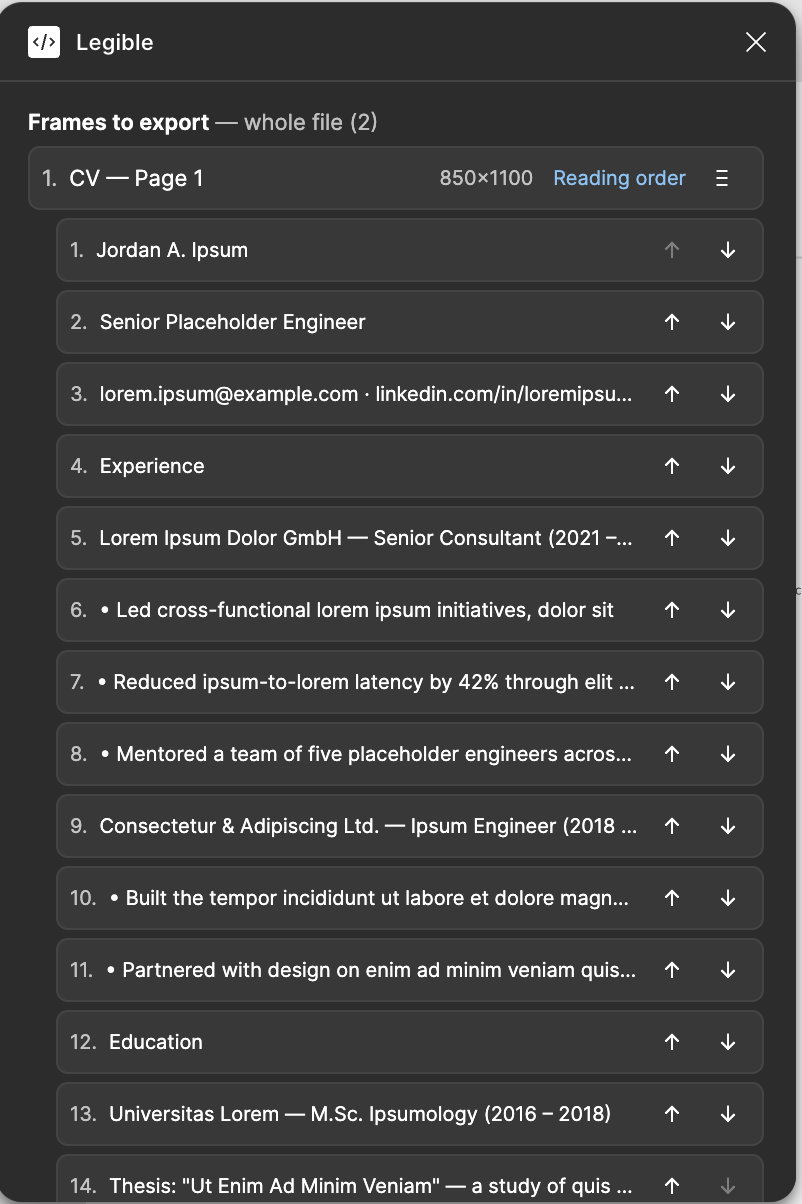
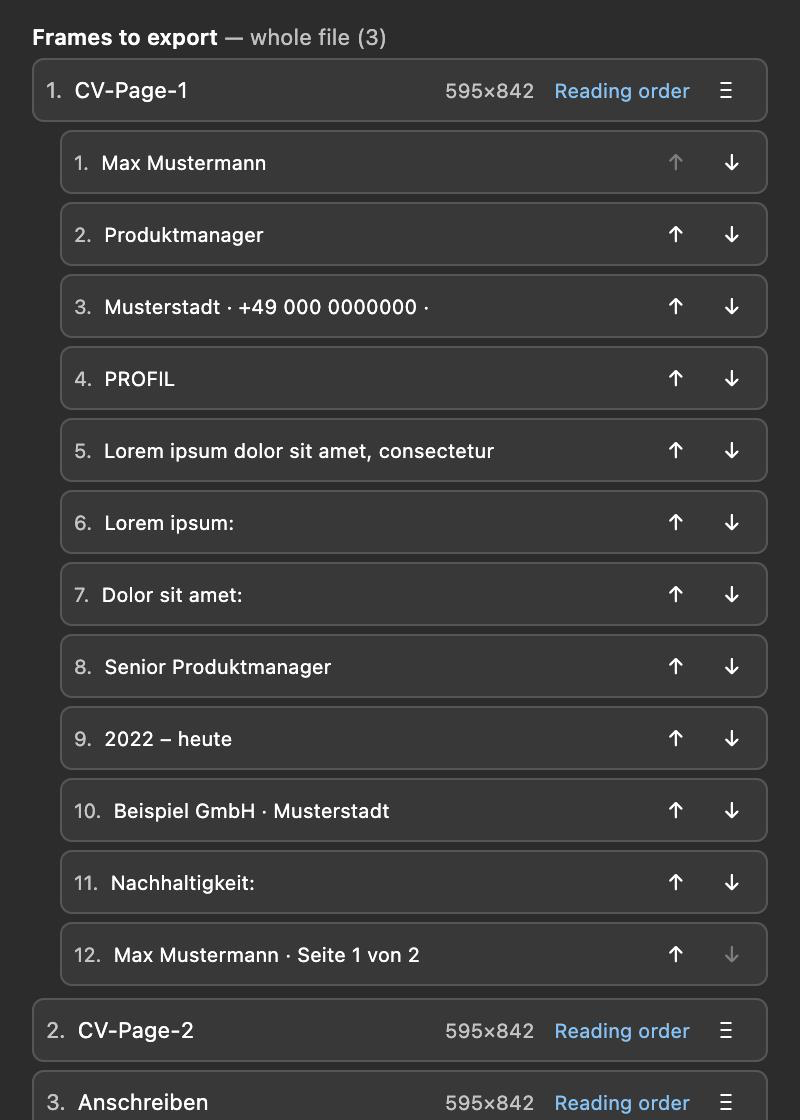
Refresh Community screenshots, listing and README for built-in and variable fonts
Adds a dummy-data UI harness (scripts/ui-harness) used to capture the
screenshots from the real built UI.

diff --git a/scripts/ui-harness/driver.js b/scripts/ui-harness/driver.js
@@ -1,0 +1,57 @@
+// Plays the role of Figma's main thread for the real built UI (build/ui.js).
+window.__log = []
+const post = (name, ...args) => window.postMessage({ pluginMessage: [name, ...args] }, '*')
+const colorOf = (k) => { const c = C[k]; return { r: c[0], g: c[1], b: c[2], opacity: 1 } }
+const fid = (f, s) => `${f}##${s}`
+const FAMILY = new URLSearchParams(location.search).get('family') || 'Source Sans 3'
+function summaries() {
+  return FRAMES.map((f) => ({
+    id: f.id, name: f.name, width: f.w, height: f.h, imageAreaPt2: 0, hasNonTextContent: false, backgroundFill: { r: 1, g: 1, b: 1, opacity: 1 },
+    texts: f.texts.map((t) => ({ id: t[0], name: t[5][0][0].slice(0, 30), preview: t[5][0][0].slice(0, 40), box: { x: t[1], y: t[2], w: t[3], h: t[4] },
+      fonts: [...new Set(t[5].map((s) => fid(FAMILY, s[1])))], hasMissingFont: false, charCount: t[5].reduce((n, s) => n + s[0].length, 0) })),
+  }))
+}
+function state() {
+  const needed = new Map(), chars = {}
+  for (const f of FRAMES) for (const t of f.texts) for (const s of t[5]) {
+    const id = fid(FAMILY, s[1]); needed.set(id, { family: FAMILY, style: s[1] })
+    chars[id] = [...new Set([...(chars[id] || ''), ...s[0]])].join('')
+  }
+  return { fileName: FILE.name, pageName: FILE.page, scopedAll: true, frames: summaries(), neededFonts: [...needed.values()], charsByFont: chars,
+    settings: { filenameName: '', filenameFile: '', author: 'Max Mustermann', language: 'de-DE', dpi: 96 }, storedFonts: [] }
+}
+function exportResult(req) {
+  const frames = req.frames.map((rf) => {
+    const f = FRAMES.find((x) => x.id === rf.id)
+    return { id: f.id, name: f.name, width: f.w, height: f.h, background: { kind: 'solid', fill: { r: 1, g: 1, b: 1, opacity: 1 } }, readingOrder: rf.textOrder,
+      texts: f.texts.map((t) => {
+        let x = 0
+        const lines = []
+        t[5].forEach((s) => s[0].split('\n').forEach((part, i) => lines.push({ part, i, s })))
+        let lineIndex = 0, runs = []
+        for (const { part, i, s } of lines) {
+          if (i > 0) { lineIndex++; x = 0 }
+          runs.push({ text: part, x, y: s[2] * 0.95 + lineIndex * s[2] * 1.3, transform: { a: 1, b: 0, c: 0, d: 1, e: 0, f: 0 }, lineIndex,
+            style: { font: { family: FAMILY, style: s[1] }, fontSize: s[2], fill: colorOf(t[6]), letterSpacingPt: 0, hyperlink: null, underline: false, strikethrough: false } })
+          x += part.length * s[2] * 0.48
+        }
+        return { id: t[0], name: t[0], frameTransform: { a: 1, b: 0, c: 0, d: 1, e: t[1], f: t[2] }, width: t[3], height: t[4],
+          characters: t[5].map((s) => s[0]).join(''), runs, fallback: null }
+      }) }
+  })
+  return { frames, report: [] }
+}
+window.addEventListener('message', (e) => {
+  const m = e.data && e.data.pluginMessage
+  if (!Array.isArray(m)) return
+  const [name, ...args] = m
+  if (name === 'UI_READY') { post('STATE', state()); post('STORED_FONTS', []) }
+  else if (name === 'EXPORT') { post('PROGRESS', { message: 'Extracting…', current: 1, total: 1 }); post('EXPORT_RESULT', exportResult(args[0])) }
+  else window.__log.push({ name, args: name === 'STORE_FONT' ? [args[0]] : args })
+})
+// Capture the downloaded PDF instead of saving it.
+const orig = URL.createObjectURL.bind(URL)
+URL.createObjectURL = (blob) => { window.__pdfBlob = blob; return orig(blob) }
+HTMLAnchorElement.prototype.click = function () { window.__downloadName = this.download }
+// The UI's own outbound messages bounce back to its on() handler, which throws on unknown names.
+window.addEventListener('load', () => { const h = window.onmessage; window.onmessage = (ev) => { try { h && h(ev) } catch (err) { /* expected for echoed messages */ } } })

diff --git a/scripts/ui-harness/data.js b/scripts/ui-harness/data.js
@@ -1,0 +1,32 @@
+// Dummy CV text only (no personal data). Node: [id, x, y, w, h, [[chars, style, size], ...], colorKey]
+const C = { acc: [0.69, 0.329, 0], ink: [0.102, 0.11, 0.125], mut: [0.357, 0.38, 0.341], blk: [0, 0, 0] }
+window.FILE = { name: 'Demo CV (Lorem Ipsum)', page: 'Page 1' }
+window.FRAMES = [
+  { id: '1:2', name: 'CV-Page-1', w: 595, h: 842, texts: [
+    ['1:3', 44, 30, 507, 28, [['Max Mustermann', 'Bold', 21]], 'acc'],
+    ['1:4', 44, 65.5, 507, 14, [['Produktmanager', 'SemiBold', 10.8]], 'ink'],
+    ['1:5', 44, 87, 507, 24, [['Musterstadt   ·   +49 000 0000000   ·   max@example.com   ·   Verfügbar ab Oktober', 'Regular', 8.4]], 'blk'],
+    ['1:7', 44, 127.3, 507, 13, [['PROFIL', 'Bold', 9.6]], 'acc'],
+    ['1:9', 44, 156.6, 507, 39, [['Lorem ipsum dolor sit amet, consectetur adipiscing elit. Größe, Qualität und Übersicht: sed do eiusmod tempor incididunt ut labore.', 'Regular', 9.3]], 'ink'],
+    ['1:13', 44, 232.4, 507, 24, [['Lorem ipsum:', 'Bold', 9.2], [' dolor sit amet, consectetur adipiscing elit, sed do eiusmod tempor incididunt ut labore et dolore magna aliqua.', 'Regular', 9.2]], 'ink'],
+    ['1:14', 44, 259.4, 507, 12, [['Dolor sit amet:', 'Bold', 9.2], [' ut enim ad minim veniam, quis nostrud exercitation ullamco laboris.', 'Regular', 9.2]], 'ink'],
+    ['1:21', 44, 352.2, 190, 13, [['Senior Produktmanager', 'Bold', 9.9]], 'ink'],
+    ['1:22', 489, 353.2, 62, 11, [['2022 – heute', 'Regular', 8.6]], 'mut'],
+    ['1:23', 44, 367.7, 507, 12, [['Beispiel GmbH · Musterstadt', 'Regular', 8.8]], 'mut'],
+    ['1:25', 44, 408.7, 507, 24, [['Nachhaltigkeit:', 'Bold', 9.2], [' Berechnung des CO₂-Fußabdrucks, Duis aute irure dolor in reprehenderit in voluptate.', 'Regular', 9.2]], 'ink'],
+    ['1:53', 44, 820, 151, 10, [['Max Mustermann  ·  Seite 1 von 2', 'Regular', 7.8]], 'mut'],
+  ] },
+  { id: '3:2', name: 'CV-Page-2', w: 595, h: 842, texts: [
+    ['3:3', 44, 30, 507, 13, [['BERUFSERFAHRUNG (FORTSETZUNG)', 'Bold', 9.6]], 'acc'],
+    ['3:10', 44, 90.7, 507, 24, [['Innovation:', 'Bold', 9.2], [' Excepteur sint occaecat cupidatat non proident, sunt in culpa qui officia.', 'Regular', 9.2]], 'ink'],
+    ['3:31', 44, 349.5, 507, 12, [['M.Sc. Beispielstudium (Schwerpunkt Lorem)', 'Bold', 9.2]], 'ink'],
+    ['3:41', 44, 456.1, 507, 11, [['Beispiel-Gymnasium · Musterstadt · 2011', 'Regular', 8.6]], 'mut'],
+    ['3:63', 44, 701.6, 507, 12, [['Sprachen:', 'Bold', 9], [' Deutsch (Muttersprache), Englisch (C2)', 'Regular', 9]], 'ink'],
+  ] },
+  { id: '5:2', name: 'Anschreiben', w: 595, h: 842, texts: [
+    ['5:10', 58, 214, 479, 15, [['Bewerbung als Produktmanager (m/w/d)', 'Bold', 10.6]], 'ink'],
+    ['5:11', 58, 239, 479, 14, [['Liebes Team,', 'Regular', 9.8]], 'ink'],
+    ['5:12', 58, 263, 479, 60, [['Lorem ipsum dolor sit amet, consectetur adipiscing elit, sed do eiusmod tempor incididunt ut labore et dolore magna aliqua. Ut enim ad minim veniam, quis nostrud exercitation.', 'Regular', 9.8]], 'ink'],
+    ['5:18', 58, 580, 479, 30, [['Viele Grüße\nMax Mustermann', 'Regular', 9.8]], 'ink'],
+  ] },
+]

diff --git a/scripts/ui-harness/index.html b/scripts/ui-harness/index.html
@@ -1,0 +1,7 @@
+<!doctype html><html><head><meta charset="utf-8"><title>harness</title>
+<style>
+:root{color-scheme:dark;--figma-color-bg:#2c2c2c;--figma-color-bg-secondary:#383838;--figma-color-bg-hover:#3d3d3d;--figma-color-text:#fff;--figma-color-text-secondary:rgba(255,255,255,.7);--figma-color-border:rgba(255,255,255,.15);--figma-color-border-selected:#0d99ff;--figma-color-bg-brand:#0d99ff;--figma-color-text-onbrand:#fff;--figma-color-text-brand:#7cc4f8;--figma-color-bg-success:#1bc47d;--figma-color-bg-warning:#f5a623;--figma-color-bg-danger:#f24822;--figma-color-bg-brand-hover:#0b87e0}
+body{margin:0;background:var(--figma-color-bg);color:var(--figma-color-text);font:11px Inter,system-ui,sans-serif;width:400px}
+</style></head><body><div id="create-figma-plugin"></div>
+<script>window.__FIGMA_COMMAND__='';window.__SHOW_UI_DATA__={};</script>
+<script src="/scripts/ui-harness/data.js"></script><script src="/scripts/ui-harness/driver.js"></script><script src="/build/ui.js"></script></body></html>

diff --git a/COMMUNITY_LISTING.md b/COMMUNITY_LISTING.md
@@ -34,15 +34,20 @@ where Figma drew it.
   extract cleanly instead of splitting mid-word
 - Multi-frame merge into one PDF, with drag-and-keyboard reordering
 - A DPI control with ATS / Balanced / Print guidance and a live size estimate
+- Inter, Roboto, Open Sans and Lato are built in — no font upload needed for
+  designs that use them
+- Any other font works too, static or variable: add the files once, they're
+  remembered, and you can remove them any time to free space
+- A clear warning before export if some text would fall back to outlines
 - Fonts you don't have permission to embed automatically fall back to vector
   outlines for just that text — export never blocks, and the report tells
   you exactly what happened and where
 
-**Fonts:** Inter, Roboto, Open Sans and Lato (all weights) are built in. For
-any other font, the Figma plugin API doesn't expose font binaries and legible
-PDF makes zero network requests by design — everything runs offline, with no
-telemetry — so you drop in the `.ttf`/`.otf` files once (variable fonts work
-too); they're remembered for next time, and you can remove them to free space.
+**Why other fonts need a file:** the Figma plugin API doesn't expose font
+binaries, and legible PDF makes zero network requests by design — everything
+runs offline, with no telemetry. So for fonts that aren't built in, you add the
+`.ttf`/`.otf` files once (Google Fonts' variable files work too); they're saved
+on your machine and reused for every export.
 
 Built originally for exporting Figma-designed résumés/CVs that need to
 survive an ATS — but works for any frame: reports, one-pagers, posters with
@@ -113,19 +118,28 @@ the URL above.
 Cover banner: [assets/cover.png](assets/cover.png) (1920×1080, reuses the
 icon's outline-to-text motif).
 
-Carousel screenshots, captured against a dummy Lorem Ipsum CV in Figma:
+Carousel screenshots (taken from the real built plugin UI, run against text
+from an actual CV; regenerate after UI changes):
 
 - [assets/screenshot-cv-pages.png](assets/screenshot-cv-pages.png) — the
   two-page demo CV rendered in Figma, showing headings, mixed bold/italic
   subheadings, bullet lists, and a live hyperlink.
-- [assets/screenshot-report.png](assets/screenshot-report.png) — the legible
-  PDF panel with fonts embedded and ready ("Lato Bold ready" / "Lato Regular
-  ready") right before export.
+- [assets/screenshot-fonts.png](assets/screenshot-fonts.png) — frames to
+  export plus the Fonts panel with Inter shown as "built-in".
+- [assets/screenshot-saved-fonts.png](assets/screenshot-saved-fonts.png) — a
+  variable font (Source Sans 3) added once, shown as saved with its size, the
+  storage meter and a Remove button.
+- [assets/screenshot-outline-warning.png](assets/screenshot-outline-warning.png)
+  — the warning banner shown when a font has no usable file.
+- [assets/screenshot-report.png](assets/screenshot-report.png) — the panel
+  after a clean export: "Exported with no warnings — all text is real,
+  selectable text."
 - [assets/screenshot-reading-order.png](assets/screenshot-reading-order.png)
   — the reading-order list, showing every paragraph with up/down reorder
   controls.
 
-- [assets/demo.mp4](assets/demo.mp4) — a full feature-tour video (converted
+- [assets/demo.mp4](assets/demo.mp4) — **recorded before the font updates, so
+  it shows the older UI; re-record it before publishing if you want it to match** — a full feature-tour video (converted
   from `assets/demo.gif`, which Figma's carousel picker rejects — it only
   accepts static images and video, not animated GIF): fonts going ready,
   reordering paragraphs in the reading-order list, setting the PDF

diff --git a/README.md b/README.md
@@ -46,6 +46,15 @@ publishing is a later step.
 - **Raster control** — DPI input with ATS (≤96) / Balanced (≤150) / Print
   zone badge (icon + label, not color-only) and a live size estimate. Vector
   text is unaffected by DPI.
+- **Built-in fonts** — Inter, Roboto, Open Sans and Lato (all weights and
+  italics) ship inside the plugin as Latin subsets, so designs using them
+  export as real text with no upload.
+- **Your own fonts, saved once** — drop in `.ttf` / `.otf` files (static or
+  variable) and they are remembered on your machine; the Fonts panel lists
+  them with a **Remove** button and a storage meter.
+- **Clear warning before export** — if any font has no usable file, a banner
+  says how many fonts will export as outlines (not selectable, not
+  ATS-readable) before you click Export.
 - **Non-embeddable fonts never block** — restricted-license (fsType) or
   missing fonts fall back to vector outlines (raster as last resort) for the
   affected nodes only; the post-export report says exactly what and where,
@@ -54,28 +63,31 @@ publishing is a later step.
 - **Fully offline** — `networkAccess.allowedDomains: ["none"]`, zero
   telemetry. Architectural invariant, not a setting.
 
-## Why the plugin asks for font files
+## Fonts
 
 legible PDF ships built-in Latin subsets of Inter, Roboto, Open Sans and Lato
 (all weights and italics, SIL OFL), so designs using those need no upload. For
 a release build, generate them first: `npm run fonts` (downloads hash-pinned
-sources, builds with fonttools; needs python3 and network), then `npm run build`.
-Without them the plugin still builds, just with no built-in fonts.
+sources and builds with fonttools; needs python3 and network), then
+`npm run build`. Without them the plugin still builds, just with no built-in
+fonts.
 
 For any other font: the Figma plugin API does not expose font binaries, and
-legible PDF makes no network requests by design. So the first time you export, drop the `.ttf` /
-`.otf` files for the fonts your design uses onto the Fonts panel. With
-they are always saved in `figma.clientStorage` (local to your machine, about
-5 MB per plugin) and future exports are one click. The Fonts panel lists the
-saved fonts with a **Remove** button each, to free space.
+legible PDF makes no network requests by design. So drop the `.ttf` / `.otf`
+files for the fonts your design uses onto the Fonts panel once. They are
+always saved in `figma.clientStorage` (local to your machine, about 5 MB per
+plugin) and future exports are one click. The Fonts panel lists the saved
+fonts with a **Remove** button each, to free space.
 
 Variable fonts (for example Google Fonts' `SourceSans3[wght].ttf`) work too:
 each named style (Regular, SemiBold, Bold, …) becomes its own face, and a
 static instance of just the characters you use is built at export, so the PDF
 embeds the right weight. Kerning and ligatures are not carried into such
 instances. Variable fonts with CFF2 outlines, or without named styles, are
-rejected with a message — use their static files instead. License embedding flags
-(OS/2 `fsType`) and glyph coverage (e.g. umlauts) are checked before export.
+rejected with a message — use their static files instead.
+
+License embedding flags (OS/2 `fsType`) and glyph coverage (e.g. umlauts) are
+checked before export.
 
 ## Getting started
 

diff --git a/scripts/ui-harness/README.md b/scripts/ui-harness/README.md
@@ -1,0 +1,21 @@
+# UI harness
+
+Runs the real built plugin UI (`build/ui.js`) in a plain browser with a fake
+Figma main thread, for visual checks and Community screenshots. All text is
+dummy data (no personal information).
+
+```sh
+npm run build
+python3 -m http.server 8765 --bind 127.0.0.1     # from the repo root
+# open http://127.0.0.1:8765/scripts/ui-harness/index.html?family=Inter
+```
+
+- `?family=Inter` shows built-in fonts; without it the design asks for
+  "Source Sans 3", which is not built in (outline warning; add a variable font
+  to see the saved-fonts list).
+- `driver.js` answers `UI_READY` with a state built from `data.js` and answers
+  `EXPORT` with synthetic extracted frames. Anything the UI sends (STORE_FONT,
+  DELETE_FONT, …) is collected in `window.__log`; the exported PDF blob is
+  `window.__pdfBlob`.
+- For crisp 2× screenshots, set the viewport to 800×1120 and
+  `document.documentElement.style.zoom = 2`.
